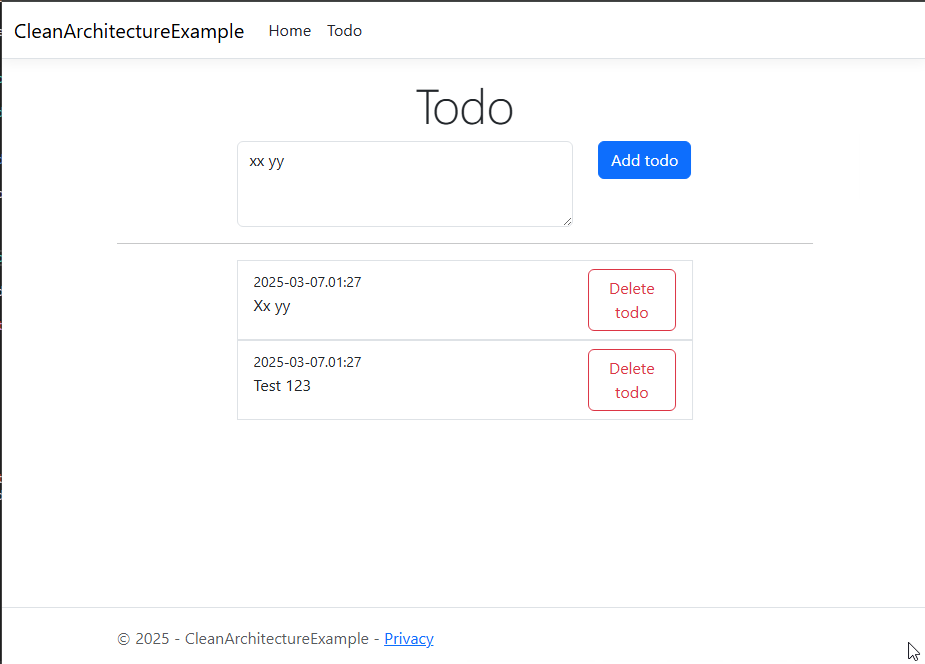
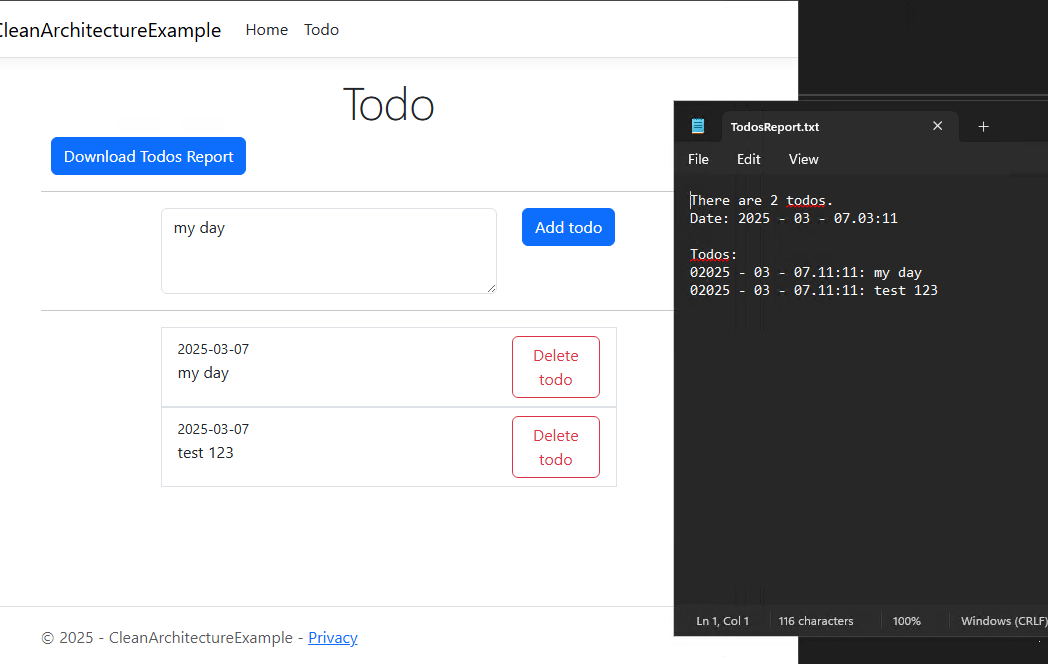
Update project

diff --git a/src/Presenters/Presenters/TodoReportPresenter.cs b/src/Presenters/Presenters/TodoReportPresenter.cs
@@ -1,36 +1,36 @@
 using DomainLayer.SeedCore.OutputPorts.Presenters;
-using PresentersLayer.ViewModels;
 
 namespace PresentersLayer.Presenters;
 
 public class TodoReportPresenter : ITodoReportPresenter
 {
-    private TodosResponseModel? todosResponseModel;
+    private TodosResponseModel todosResponseModel;
 
     public void SetTodos(TodosResponseModel todosResponseModel)
     {
+        ArgumentNullException.ThrowIfNull(todosResponseModel, nameof(todosResponseModel));
+
         this.todosResponseModel = todosResponseModel;
     }
 
-    public TodoReportViewModel TodoReportViewModel()
+    public string GetReport()
     {
-        if (todosResponseModel is null)
+        if (todosResponseModel.Todos.Count == 0)
         {
-            return new TodoReportViewModel
-            {
-                ReportDate = DateTime.Now,
-                Title = "There are no todos.",
-                Todos = []
-            };
+            return $"""
+                    There are no todos.
+                    Date: {DateTime.Now:yyyy - MM - dd.hh:mm}
+                    """;
         }
-        return new TodoReportViewModel
-        {
-            ReportDate = DateTime.Now,
-            Title = $"There are {todosResponseModel.Todos.Count} todos.",
-            Todos = [.. todosResponseModel.Todos.Select(todo => new TodoDto(
-                todo.Id,
-                todo.Title,
-                todo.Date.ToString("yyyy-MM-dd")))]
-        };
+
+        return $"""
+                There are {todosResponseModel.Todos.Count} todos.
+                Date: {DateTime.Now:yyyy - MM - dd.hh:mm}
+
+                Todos: 
+                {string.Join(Environment.NewLine,
+                    todosResponseModel.Todos
+                        .Select(todo => $"{todo.Date:yyyyy - MM - dd.hh:mm}: {todo.Title}"))}
+                """;
     }
 }

diff --git a/src/CleanArchitectureExample/Controllers/TodoController.cs b/src/CleanArchitectureExample/Controllers/TodoController.cs
@@ -1,10 +1,12 @@
-using Core.InputPorts;
+using CleanArchitectureExample.Controllers.InputModels;
+using Core.InputPorts;
+using DomainLayer.SeedCore.OutputPorts.Presenters;
 using Microsoft.AspNetCore.Mvc;
 using PresentersLayer.Presenters;
 
 namespace CleanArchitectureExample.Controllers;
 
-public class TodoController(ITodoService todoService) : Controller
+public class TodoController(ITodoService todoService, ITodoIndexPagePresenter todoIndexPagePresenter) : Controller
 {
     public async Task<IActionResult> Index()
     {
@@ -29,22 +31,10 @@ public class TodoController(ITodoService todoService) : Controller
 
     private async Task<IActionResult> ShowIndexView()
     {
-        var todoPresenter = await GetTodoPresenter(todoService);
+        await todoService.PrintTodosQueue(todoIndexPagePresenter);
 
-        var viewModel = todoPresenter.TodoViewModel();
+        var viewModel = todoIndexPagePresenter.GetViewModel();
 
         return View("Index", viewModel);
-    }
-
-    private static async Task<TodoPresenter> GetTodoPresenter(ITodoService todoService)
-    {
-        var presenters = await todoService.ShowTodosQueue();
-
-        if (presenters.TodoPresenter is not TodoPresenter todoPresenter)
-        {
-            throw new InvalidOperationException("Invalid presenter");
-        }
-
-        return todoPresenter;
     }
 }

diff --git a/src/Presenters/Presenters/TodoIndexPagePresenter.cs b/src/Presenters/Presenters/TodoIndexPagePresenter.cs
@@ -4,33 +4,27 @@ using PresentersLayer.ViewModels;
 
 namespace PresentersLayer.Presenters;
 
-public class TodoPresenter : ITodoPresenter
+public class TodoIndexPagePresenter : ITodoIndexPagePresenter
 {
-    private TodosResponseModel? todosResponseModel;
+    private TodosResponseModel todosResponseModel;
 
     public void SetTodos(TodosResponseModel todosResponseModel)
     {
+        ArgumentNullException.ThrowIfNull(todosResponseModel, nameof(todosResponseModel));
+
         this.todosResponseModel = todosResponseModel;
     }
 
-    public TodoViewModel TodoViewModel()
+    public TodoViewModel GetViewModel()
     {
-        if (todosResponseModel is null)
-        {
-            return new TodoViewModel
-            {
-                Title = string.Empty,
-                Todos = []
-            };
-        }
-
         return new TodoViewModel
         {
             Title = string.Empty,
             Todos = [.. todosResponseModel.Todos.Select(todo => new TodoDto(
                 todo.Id,
-                todo.Title.FirstCharToUpper(),
-                todo.Date.ToString("yyyy-MM-dd.hh:mm")))]
+                todo.Title,
+                todo.Date.ToString("yyyy-MM-dd")))]
         };
     }
+
 }

diff --git a/src/ApplicationLayer/Interactors/TodoService.cs b/src/ApplicationLayer/Interactors/TodoService.cs
@@ -6,18 +6,15 @@ using Microsoft.EntityFrameworkCore;
 
 namespace ApplicationLayer.Interactors;
 
-public class TodoService(ITodoContext todoContext, ITodoPresenter todoPresenter, ITodoReportPresenter todoReportPresenter) : ITodoService
+public class TodoService(ITodoContext todoContext) : ITodoService
 {
-    public async Task<(ITodoPresenter, ITodoReportPresenter)> ShowTodosQueue()
+    public async Task PrintTodosQueue(ITodoPresenter todoPresenter)
     {
         var todo = await todoContext.Todo.AsNoTracking().OrderByDescending(todo => todo.Date).ToListAsync();
 
         var todosResponseModel = new TodosResponseModel(todo);
 
         todoPresenter.SetTodos(todosResponseModel);
-        todoReportPresenter.SetTodos(todosResponseModel);
-
-        return (todoPresenter, todoReportPresenter);
     }
 
     public async Task CreateTodoCommand(string title)

diff --git a/src/CleanArchitectureExample/Program.cs b/src/CleanArchitectureExample/Program.cs
@@ -4,6 +4,7 @@ using DomainLayer.SeedCore.OutputPorts.Gateways;
 using DomainLayer.SeedCore.OutputPorts.Presenters;
 using InfrastructureLayer.Database;
 using PresentersLayer.Presenters;
+using PresentersLayer.ViewModels;
 
 var builder = WebApplication.CreateBuilder(args);
 
@@ -12,8 +13,8 @@ builder.Services.AddControllersWithViews();
 
 builder.Services.AddScoped<ITodoService, TodoService>();
 
-builder.Services.AddScoped<ITodoPresenter, TodoPresenter>();
-builder.Services.AddScoped<ITodoReportPresenter, TodoReportPresenter>();
+builder.Services.AddTransient<ITodoIndexPagePresenter, TodoIndexPagePresenter>();
+builder.Services.AddTransient<ITodoReportPresenter, TodoReportPresenter>();
 
 builder.Services.AddDbContext<ITodoContext, TodoContext>();
 

diff --git a/src/CleanArchitectureExample/Controllers/TodoReportController.cs b/src/CleanArchitectureExample/Controllers/TodoReportController.cs
@@ -1,0 +1,19 @@
+using Core.InputPorts;
+using DomainLayer.SeedCore.OutputPorts.Presenters;
+using Microsoft.AspNetCore.Mvc;
+using System.Text;
+
+namespace CleanArchitectureExample.Controllers;
+
+public class TodoReportController(ITodoService todoService, ITodoReportPresenter todoReportPresenter) : Controller
+{
+    [HttpPost]
+    public async Task<IActionResult> Index()
+    {
+        await todoService.PrintTodosQueue(todoReportPresenter);
+
+        var report = todoReportPresenter.GetReport();
+
+        return File(Encoding.Unicode.GetBytes(report), "text/plain", "TodosReport.txt");
+    }
+}

diff --git a/src/DomainLayer/SeedCore/InputPorts/ITodoService.cs b/src/DomainLayer/SeedCore/InputPorts/ITodoService.cs
@@ -5,7 +5,7 @@ namespace Core.InputPorts;
 
 public interface ITodoService
 {
-    Task<(ITodoPresenter TodoPresenter, ITodoReportPresenter TodoReportPresenter)> ShowTodosQueue();
+    Task PrintTodosQueue(ITodoPresenter todoPresenter);
 
     Task CreateTodoCommand(string title);
 

diff --git a/src/Presenters/Presenters/ITodoIndexPagePresenter.cs b/src/Presenters/Presenters/ITodoIndexPagePresenter.cs
@@ -1,0 +1,8 @@
+using PresentersLayer.ViewModels;
+
+namespace DomainLayer.SeedCore.OutputPorts.Presenters;
+
+public interface ITodoIndexPagePresenter : ITodoPresenter
+{
+    TodoViewModel GetViewModel();
+}

diff --git a/src/Presenters/Presenters/ITodoReportPresenter.cs b/src/Presenters/Presenters/ITodoReportPresenter.cs
@@ -1,0 +1,8 @@
+using PresentersLayer.ViewModels;
+
+namespace DomainLayer.SeedCore.OutputPorts.Presenters;
+
+public interface ITodoReportPresenter : ITodoPresenter
+{
+    string GetReport();
+}

diff --git a/src/CleanArchitectureExample/Controllers/InputModels/DeleteTodoInputModel.cs b/src/CleanArchitectureExample/Controllers/InputModels/DeleteTodoInputModel.cs
@@ -1,4 +1,4 @@
-namespace CleanArchitectureExample.Controllers
+namespace CleanArchitectureExample.Controllers.InputModels
 {
     public class DeleteTodoInputModel
     {

diff --git a/src/CleanArchitectureExample/Controllers/InputModels/AddTodoInputModel.cs b/src/CleanArchitectureExample/Controllers/InputModels/AddTodoInputModel.cs
@@ -1,4 +1,4 @@
-namespace CleanArchitectureExample.Controllers
+namespace CleanArchitectureExample.Controllers.InputModels
 {
     public class AddTodoInputModel
     {
